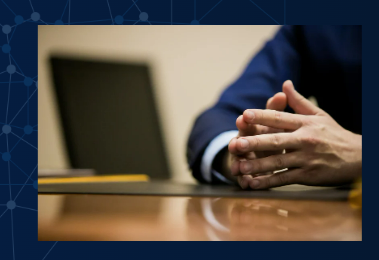
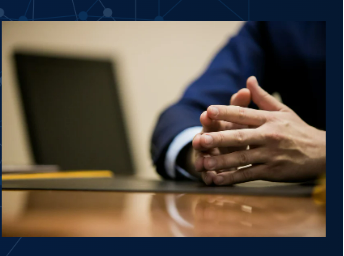
fix: update pillar images, remove pilar2, clean WhatsAppButtonWrapper

diff --git a/components/WhatsAppButtonWrapper.jsx b/components/WhatsAppButtonWrapper.jsx
@@ -1,12 +1,9 @@
 'use client';
 
 import dynamic from 'next/dynamic';
-import { usePathname } from 'next/navigation';
 
 const WhatsAppButton = dynamic(() => import('./WhatsAppButton'), { ssr: false });
 
 export default function WhatsAppButtonWrapper() {
-  const pathname = usePathname();
-  if (pathname?.startsWith('/cortrip')) return null;
   return <WhatsAppButton />;
 }
